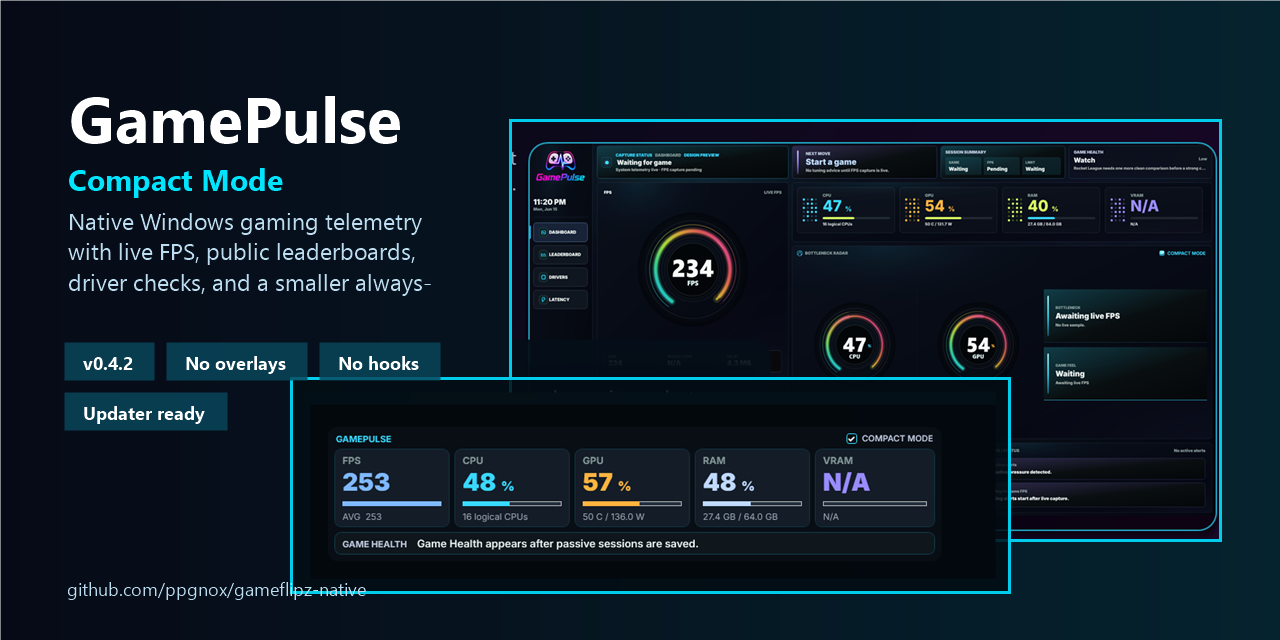
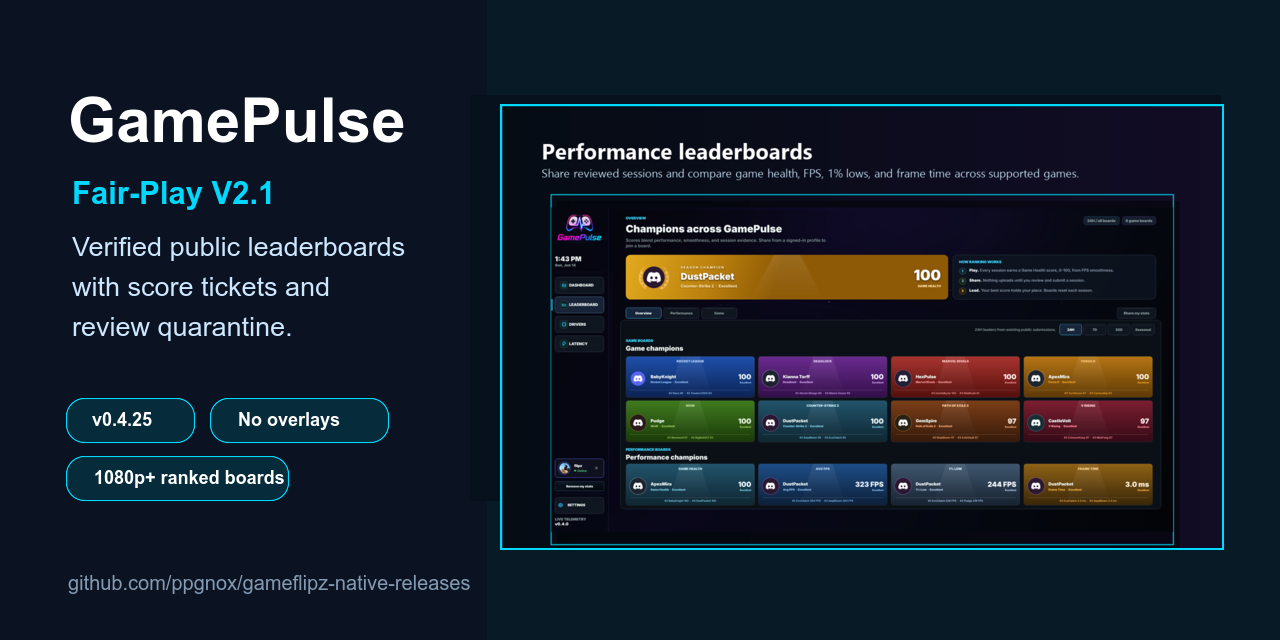
Update public docs for v0.4.25 [skip ci]

diff --git a/README.md b/README.md
@@ -6,14 +6,14 @@
 
 **Benchmark page | Compact Mode | live FPS | frame pacing | Game Health | public leaderboards**
 
-<a href="https://github.com/ppgnox/gameflipz-native-releases/releases/tag/v0.4.24"><img alt="Latest release v0.4.24" src="https://img.shields.io/badge/latest-v0.4.24-2ea043"></a>
+<a href="https://github.com/ppgnox/gameflipz-native-releases/releases/tag/v0.4.25"><img alt="Latest release v0.4.25" src="https://img.shields.io/badge/latest-v0.4.25-2ea043"></a>
 <a href="docs/install.md"><img alt="Windows 10 and 11 x64" src="https://img.shields.io/badge/platform-Windows%2010%20%2F%2011%20x64-0078D6"></a>
 <a href="docs/support.md"><img alt="App feedback" src="https://img.shields.io/badge/new-app%20feedback-00d9ff"></a>
 <a href="docs/privacy-and-safety.md"><img alt="Anti-cheat conservative" src="https://img.shields.io/badge/no%20overlays%20%2F%20hooks-anti--cheat%20conservative-8957e5"></a>
 <a href="docs/status.md"><img alt="Velopack updater" src="https://img.shields.io/badge/updater-Velopack-2ea043"></a>
 <a href="#is-this-safe-to-run"><img alt="Signing status: SmartScreen prompt expected" src="https://img.shields.io/badge/signing-SmartScreen%20prompt%20expected-e3b341"></a>
 
-<a href="https://github.com/ppgnox/gameflipz-native-releases/releases/download/v0.4.24/GamePulse-Friend-Setup-0.4.24.exe"><img alt="Download GamePulse 0.4.24 for Windows 10 and 11 x64" src="https://img.shields.io/badge/Download%20GamePulse%200.4.24-Windows%2010%20%2F%2011%20x64-2ea043?style=for-the-badge"></a>
+<a href="https://github.com/ppgnox/gameflipz-native-releases/releases/download/v0.4.25/GamePulse-Friend-Setup-0.4.25.exe"><img alt="Download GamePulse 0.4.25 for Windows 10 and 11 x64" src="https://img.shields.io/badge/Download%20GamePulse%200.4.25-Windows%2010%20%2F%2011%20x64-2ea043?style=for-the-badge"></a>
 
 [Install](docs/install.md) |
 [Screenshots](docs/screenshots.md) |
@@ -26,31 +26,31 @@
 
 ---
 
-![GamePulse Compact Mode hero](assets/hero-compact-mode.png)
+![GamePulse Fair-Play leaderboard hero](assets/hero-compact-mode.png)
 
 GamePulse is a lightweight Windows app that shows your real-time gaming performance without becoming a game overlay. It tracks FPS, frame timing, Benchmark runs, system pressure, game sessions, public leaderboard results, driver readiness, and latency signals from outside the game using native Windows telemetry paths.
 
 Your data stays on your PC unless you choose to share public leaderboard stats.
 
-## New In v0.4.24: Driver Health + Latency Console
+## New In v0.4.25: Fair-Play V2.1 Leaderboards
 
-`v0.4.24` adds a Driver Health Console, improves Windows driver update guidance, and redesigns the Latency page around clearer readiness signals.
+`v0.4.25` hardens public leaderboard ranking with verified Fair-Play V2.1 score evidence and server-issued one-use score tickets.
 
-- Driver Health Console groups real devices into clearer buckets with driver freshness and safer update guidance.
-- Windows driver update-center flow surfaces selectable driver offers without making updates silent.
-- Latency page now has a structured console with a pylon hero, readiness summary, attention rows, and aligned Windows checks.
-- Latency audit classification now treats GPU interrupt mode and default display composition as ready when Windows exposes safe values.
-- Adds the Microsoft Store prototype package lane while keeping the normal Friend Setup updater path available.
-- Includes the `v0.4.23` Benchmark target readiness, compact overlay clarity, and cleaner player-facing game names.
+- Default public boards now show verified/ranked V2 rows only.
+- Tiny-resolution, unfocused, long-idle, unstable-capture, target-switch, and weak-evidence sessions do not rank publicly.
+- Menu-like or unusual sessions can be quarantined for review instead of deleted.
+- Score submissions require server-side board allowlists, matching game process evidence, and one-use score tickets.
+- Legacy leaderboard rows stay stored but are hidden from the default public boards.
+- Includes the `v0.4.24` Driver Health Console, Latency page redesign, and Microsoft Store prototype package lane.
 - Prior privacy, auth, public-data, feedback, and installer hardening remains included.
 - No overlays, injection, hooks, game memory access, or game-file changes.
 - Dev-signed release: SmartScreen / unknown-publisher prompts are still expected.
 
 ## Download
 
-**Recommended:** [Download GamePulse-Friend-Setup-0.4.24.exe](https://github.com/ppgnox/gameflipz-native-releases/releases/download/v0.4.24/GamePulse-Friend-Setup-0.4.24.exe)
+**Recommended:** [Download GamePulse-Friend-Setup-0.4.25.exe](https://github.com/ppgnox/gameflipz-native-releases/releases/download/v0.4.25/GamePulse-Friend-Setup-0.4.25.exe)
 
-Prefer to read the notes first? Open [GamePulse 0.4.24](https://github.com/ppgnox/gameflipz-native-releases/releases/tag/v0.4.24) and download the branded setup from the release assets.
+Prefer to read the notes first? Open [GamePulse 0.4.25](https://github.com/ppgnox/gameflipz-native-releases/releases/tag/v0.4.25) and download the branded setup from the release assets.
 
 GamePulse is self-contained. You do not need to install .NET separately.
 
@@ -110,7 +110,7 @@ GamePulse uses Velopack and this public GitHub repo as the update feed. Updates 
 
 ## Current Notes
 
-- Latest public version: `v0.4.24`.
+- Latest public version: `v0.4.25`.
 - **Report a bug** and **Request a feature** submit public GitHub feedback after Discord sign-in.
 - Production-trusted signing is planned; SmartScreen prompts remain expected for now.
 - Public stats and leaderboards are opt-in.

diff --git a/docs/status.md b/docs/status.md
@@ -4,24 +4,24 @@ This page keeps the public status clear without turning the README into a change
 
 ## Current Public Release
 
-- Latest public release: `v0.4.24`
-- Main highlight: Driver Health Console and redesigned Latency page
-- Release page: [GamePulse 0.4.24](https://github.com/ppgnox/gameflipz-native-releases/releases/tag/v0.4.24)
+- Latest public release: `v0.4.25`
+- Main highlight: Fair-Play V2.1 verified public leaderboards
+- Release page: [GamePulse 0.4.25](https://github.com/ppgnox/gameflipz-native-releases/releases/tag/v0.4.25)
 - Public updater feed: active
 
-## Shipped In v0.4.24
+## Shipped In v0.4.25
 
-- Adds the Driver Health Console with clearer real-device buckets, driver freshness, and safer update guidance.
-- Adds the Windows driver update-center flow for selectable driver offers.
-- Redesigns the Latency page into a structured console with a pylon hero, readiness summary, attention rows, and aligned Windows checks.
-- Fixes latency audit classification so GPU interrupt mode and default display composition report as ready when Windows exposes safe values.
-- Adds the Microsoft Store prototype package lane while keeping the normal Friend Setup updater path available.
-- Keeps the `v0.4.23` Benchmark targeting, compact overlay clarity, cleaner player-facing game names, and prior FPS repair guards, diagnostics, privacy, auth, public-data, feedback, and installer hardening.
+- Default public boards show only verified/ranked Fair-Play V2 rows.
+- Public score submits require a server-issued one-use score ticket.
+- Low-resolution, unfocused, idle, target-switch, unstable-capture, and weak-evidence sessions do not rank publicly.
+- Menu-like or suspicious sessions can be stored for review without appearing on public boards.
+- Legacy/unverified leaderboard rows stay stored but are hidden from default public boards.
+- Keeps the `v0.4.24` Driver Health Console, Latency page redesign, Store prototype package lane, and prior FPS repair guards, diagnostics, privacy, auth, public-data, feedback, and installer hardening.
 
 ## Known Notes
 
 - Windows SmartScreen may show unknown-publisher prompts because this release is dev-signed, not production-trusted.
-- Public leaderboards are opt-in and require Discord sign-in.
+- Public leaderboards are opt-in, require Discord sign-in, and require verified Fair-Play evidence to rank.
 - In-app feedback is public on GitHub and requires Discord sign-in.
 - GamePulse is still evolving quickly, so release notes are the best source for what changed in a specific version.
 
@@ -30,4 +30,5 @@ This page keeps the public status clear without turning the README into a change
 - Improve production signing and Windows reputation.
 - Continue reducing telemetry overhead and making optional diagnostics clearer.
 - Keep expanding reviewed game profiles for leaderboard matching.
+- Evaluate public resolution buckets after real-world Fair-Play V2.1 results.
 - Add more user-facing install/update troubleshooting guidance as friend testing exposes issues.

diff --git a/docs/release-v0.4.25.md b/docs/release-v0.4.25.md
@@ -1,0 +1,18 @@
+# GamePulse v0.4.25
+
+`v0.4.25` ships Fair-Play V2.1 public leaderboard hardening. Public boards now default to verified ranked rows only, with server-side evidence checks before a score can rank.
+
+## Download Links
+
+- Recommended installer: [GamePulse-Friend-Setup-0.4.25.exe](https://github.com/ppgnox/gameflipz-native-releases/releases/download/v0.4.25/GamePulse-Friend-Setup-0.4.25.exe)
+- Release page: [GamePulse 0.4.25](https://github.com/ppgnox/gameflipz-native-releases/releases/tag/v0.4.25)
+
+## Highlights
+
+- Adds server-issued one-use score tickets before public-ranked submissions.
+- Blocks tiny-resolution, unfocused, long-idle, unstable-capture, target-switch, and weak-evidence sessions from public ranking.
+- Routes menu-like or suspicious score evidence to review instead of ranking it.
+- Keeps legacy public rows stored but hidden from default verified/ranked boards.
+- Preserves enough resolution and evidence data to support public resolution buckets later.
+- Preserves the external telemetry boundary: no overlays, injection, hooks, game memory access, or game-file changes.
+- Dev-signed release: SmartScreen / unknown-publisher prompts are still expected.

diff --git a/docs/install.md b/docs/install.md
@@ -6,11 +6,11 @@ GamePulse is a self-contained Windows app. You do not need to install .NET or a 
 
 Download the current friend/tester setup from the latest public release:
 
-[Download GamePulse-Friend-Setup-0.4.24.exe](https://github.com/ppgnox/gameflipz-native-releases/releases/download/v0.4.24/GamePulse-Friend-Setup-0.4.24.exe)
+[Download GamePulse-Friend-Setup-0.4.25.exe](https://github.com/ppgnox/gameflipz-native-releases/releases/download/v0.4.25/GamePulse-Friend-Setup-0.4.25.exe)
 
 You can also open the release page first:
 
-[GamePulse 0.4.24 release](https://github.com/ppgnox/gameflipz-native-releases/releases/tag/v0.4.24)
+[GamePulse 0.4.25 release](https://github.com/ppgnox/gameflipz-native-releases/releases/tag/v0.4.25)
 
 ## Windows SmartScreen
 

diff --git a/docs/privacy-and-safety.md b/docs/privacy-and-safety.md
@@ -22,7 +22,7 @@ Legacy GAME FLIPZ native data may be copied forward from `%LOCALAPPDATA%\GAME FL
 
 ## Public Stats
 
-Public leaderboards are opt-in. Nothing is submitted to public boards until the player signs in and chooses to share eligible stats.
+Public leaderboards are opt-in. Nothing is submitted to public boards until the player signs in and chooses to share eligible stats. Public ranking also requires verified Fair-Play evidence; low-evidence, low-resolution, idle, unfocused, unstable, or review/quarantine sessions do not appear on default public boards.
 
 When public stats are used, GamePulse may submit:
 